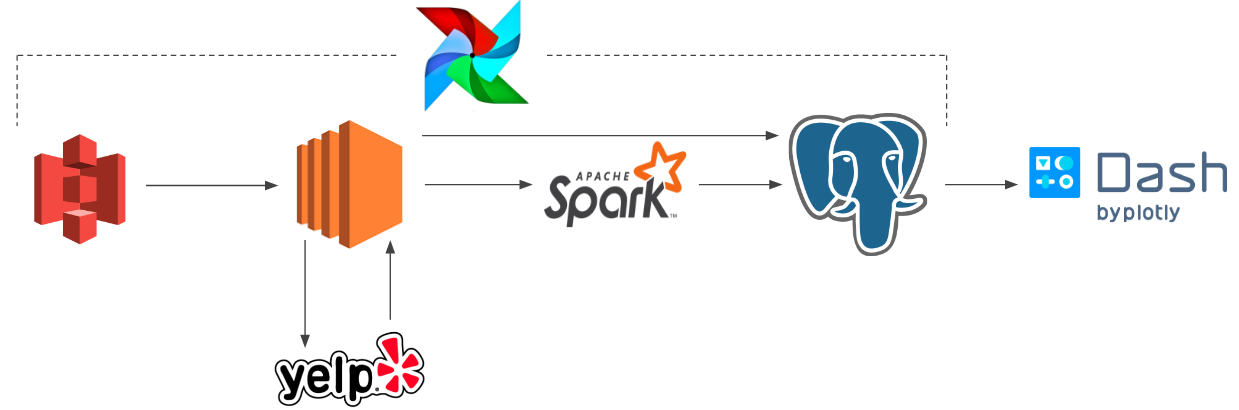
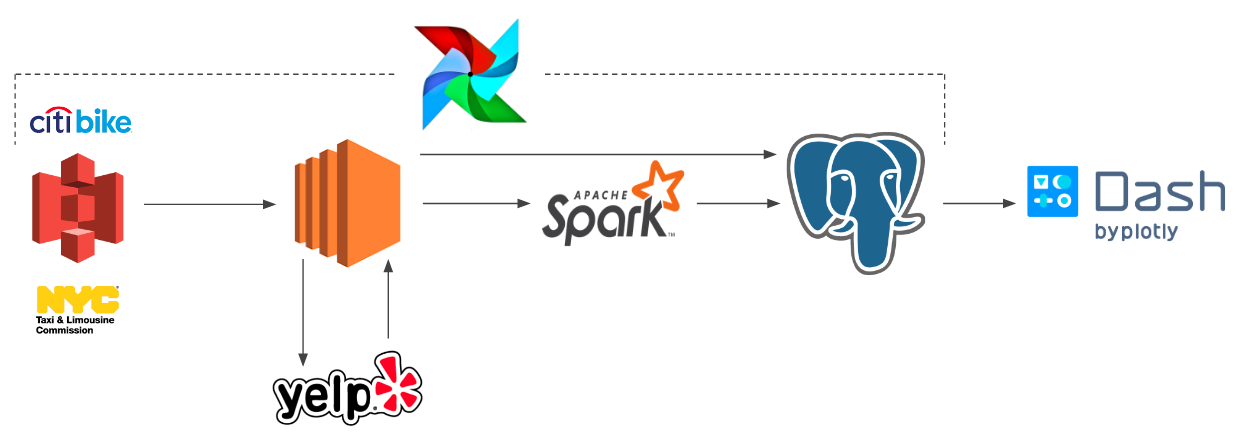
update readme more

diff --git a/README.md b/README.md
@@ -1,36 +1,59 @@
 # Where Cycle
 
-![](https://img.shields.io/badge/python-3-brightgreen.svg)
-
 *Getting New Yorkers Back to Business, Safely*
 
 ## Contents
 1. [Purpose](README.md#purpose)
 1. [Pipeline](README.md#pipeline)
 1. [Summary](README.md#summary)
+    - [Preparation](README.md#preparation)
+    - [Spark Reduction](README.md#spark-reduction)
+    - [postGIS Tables](README.md#postgis-tables)
 1. [Setup](README.md#setup)
 1. [Directory Structure](README.md#directory-structure)
 1. [DAG Hierarchy](README.md#dag-hierarchy)
 1. [License](README.md#license)
 
 ## Purpose
-With businesses closing and health officials advising social distancing earlier this year, it’s no surprise that subway and bus ridership plummeted in many large cities, including New York, which saw an almost 90% reduction by late April. Now, as cities are tentatively opening back up, people may be looking to return to their places of work and to support their favorite businesses, but they might also be hesitant to utilize public transit, instead seeking open-air alternatives.
+As health officials advised social distancing and businesses closed earlier this year, subway and bus ridership plummeted in many large cities including New York, which saw an almost 90% reduction by late April. Now, as cities are tentatively opening back up, people may be looking to return to their places of work and to support their favorite businesses, but they might also be hesitant to utilize public transit, instead seeking open-air alternatives.
 
-A cursory glance at some transit coverage in the city makes it clear that, while Citibike is an awesome open-air solution, the available stations can’t immediately meet the needs of the outer boroughs: some expansion is required. The goal of this pipeline is to determine which NYC taxi zones may be the best candidates for Citibike expansion by aggregating historical taxi & for-hire vehicle trips, Citibike stations already present, and Yelp business statistics.
+A cursory glance at some transit coverage in NYC makes it clear that, while Citibike is an awesome open-air solution, the available stations can’t immediately meet the needs of the outer boroughs: some expansion is required. **The goal of this pipeline is to determine which NYC taxi zones may be the best candidates for Citibike expansion by aggregating historical taxi & for-hire vehicle trips, Citibike trips & station density, and Yelp business statistics.**
 
 ## Pipeline
-![Preview](https://github.com/josh-lang/where-cycle/blob/master/pipeline.png)
+![Pipeline](https://github.com/josh-lang/where-cycle/blob/master/pipeline.png)
 
 ## Summary
+### Perparation
+TODO
+### Spark Reduction
+TODO
+### PostGIS Tables
+TODO
 
 ## Setup
-```sh
+This project was built using an Apache Spark 2.4.5 / Hadoop 2.7 binary downloaded from [spark.apache.org](https://spark.apache.org/downloads.html). It reads from AWS S3 and writes to PostgreSQL, so a driver from [jdbc.postgresql.org](https://jdbc.postgresql.org) should be placed in `spark/jars/` and some configuration should be added to `spark-defaults.conf`:
+| Property | Setting |
+| -------- | ------- |
+| spark.driver.extraClassPath | /usr/local/spark/jars/postgresql-42.2.14.jar |
+| spark.driver.extraJavaOptions | -Dcom.amazonaws.services.s3.enableV4=true |
+| spark.executor.extraJavaOptions | -Dcom.amazonaws.services.s3.enableV4=true |
+| spark.hadoop.fs.s3a.awsAccessKeyId | $AWS_ACCESS_KEY_ID |
+| spark.hadoop.fs.s3a.awsSecretAccessKey | $AWS_SECRET_ACCESS_KEY |
+| spark.hadoop.fs.s3a.endpoint | $AWS_S3_ENDPOINT |
+| spark.hadoop.com.amazonaws.services.s3a.enableV4 | true |
+| spark.hadoop.fs.s3a.impl | org.apache.hadoop.fs.s3a.S3AFileSystem |
+| spark.jars | /usr/local/spark/jars/postgresql-42.2.14.jar |
+| spark.jars.packages | com.amazonaws:aws-java-sdk:1.7.4,org.apache.hadoop:hadoop-aws:2.7.7 |
+
+The python dependencies can be installed with the following command:
+```
 pip install -r requirements.txt
 ```
 
 ## Directory Structure
 ```
 .
+├── LICENSE
 ├── README.md
 ├── pipeline.png
 ├── requirements.txt
